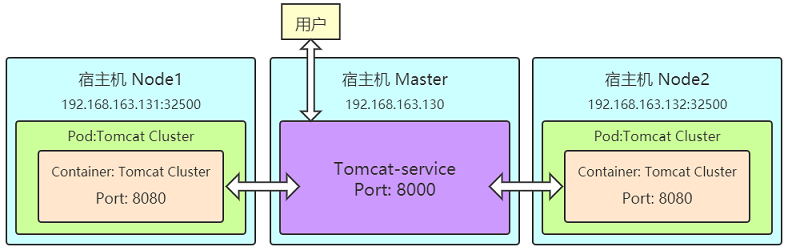
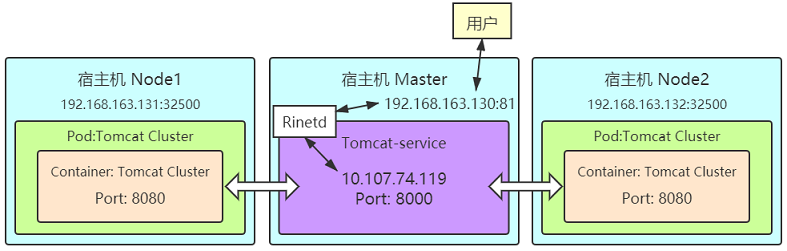
kube-service

diff --git a/2020/04/16/k8s-deployment/index.html b/2020/04/16/k8s-deployment/index.html
@@ -103,7 +103,7 @@
 <meta property="og:description" content="部署是主节点向从节点发送指令，创建容器的过程；k8s支持yml格式的部署脚本  Deployment部署脚本示例">
 <meta property="og:locale" content="zh-Hans">
 <meta property="og:image" content="http://yoursite.com/images/k8s/kube_service.png">
-<meta property="og:updated_time" content="2020-04-19T07:45:49.203Z">
+<meta property="og:updated_time" content="2020-04-19T14:31:59.927Z">
 <meta name="twitter:card" content="summary">
 <meta name="twitter:title" content="Deployment脚本部署Tomcat集群">
 <meta name="twitter:description" content="部署是主节点向从节点发送指令，创建容器的过程；k8s支持yml格式的部署脚本  Deployment部署脚本示例">
@@ -421,7 +421,7 @@
 <li><code>kubectl get deployment</code>    查看部署状态</li>
 </ol>
 <h3 id="外部访问-Tomcat-集群"><a href="#外部访问-Tomcat-集群" class="headerlink" title="外部访问 Tomcat 集群"></a>外部访问 Tomcat 集群</h3><blockquote>
-<p>在从节点上容器对外暴露的端口封装在Pod内，外界不能跨过Pod访问内部的容器。为了让外部能访问容器服务，做法是：在主节点上创建 service 服务，并向外暴露端口，通过访问 service服务，再由 service 转发到具体的 tomcat 服务，实现外部访问</p>
+<p>在从节点上容器对外暴露的端口封装在Pod内，外界不能跨过Pod访问内部的容器。为了让外部能访问容器服务，做法是：在主节点上创建 service 服务，并向外暴露端口，通过访问 service服务，再由 service 转发到具体的 tomcat 服务，实现外部访问，也可以实现负载均衡</p>
 </blockquote>
 <p><img src="\images\k8s\kube_service.png" alt=""></p>
 <ol>
@@ -430,7 +430,30 @@
 <li>kubectl get service</li>
 <li>kubectl descrive service service_name</li>
 </ol>
-<figure class="highlight"><table><tr><td class="gutter"><pre><div class="line">1</div><div class="line">2</div><div class="line">3</div><div class="line">4</div><div class="line">5</div><div class="line">6</div><div class="line">7</div><div class="line">8</div><div class="line">9</div><div class="line">10</div><div class="line">11</div><div class="line">12</div><div class="line">13</div><div class="line">14</div><div class="line">15</div></pre></td><td class="code"><pre><div class="line"># tomcat-service.yml</div><div class="line">apiVersion: v1</div><div class="line">kind: Service</div><div class="line">metadata:</div><div class="line">  name: tomcat-service</div><div class="line">  labels:</div><div class="line">    app: tomcat-service</div><div class="line">spec:</div><div class="line">  type: NodePort</div><div class="line">  selector:</div><div class="line">    app: tomcat-cluster	# Service要对应的目标 pod 的名称</div><div class="line">  ports:</div><div class="line">  - port: 8000	# Service 对外端口</div><div class="line">    targetPort: 8080    # 目标服务端口</div><div class="line">    nodePort: 32500</div></pre></td></tr></table></figure>
+<figure class="highlight"><table><tr><td class="gutter"><pre><div class="line">1</div><div class="line">2</div><div class="line">3</div><div class="line">4</div><div class="line">5</div><div class="line">6</div><div class="line">7</div><div class="line">8</div><div class="line">9</div><div class="line">10</div><div class="line">11</div><div class="line">12</div><div class="line">13</div><div class="line">14</div><div class="line">15</div></pre></td><td class="code"><pre><div class="line"># tomcat-service.yml</div><div class="line">apiVersion: v1</div><div class="line">kind: Service</div><div class="line">metadata:</div><div class="line">  name: tomcat-service</div><div class="line">  labels:</div><div class="line">    app: tomcat-service</div><div class="line">spec:</div><div class="line">#  type: NodePort</div><div class="line">  selector:</div><div class="line">    app: tomcat-cluster	# Service要对应的目标 pod 的名称</div><div class="line">  ports:</div><div class="line">  - port: 8000	# Service 对外端口</div><div class="line">    targetPort: 8080    # 目标服务端口</div><div class="line">#    nodePort: 32500</div></pre></td></tr></table></figure>
+<p>这种方式可以在宿主机内部通过<code>kubectl get services</code>查看Cluster-IP，然后通过<code>curl Cluster-IP:8080/.../...</code>的形式访问 Tomcat 集群服务，但是外界无法访问Cluster-IP，因为外部只能看到宿主机的IP，如何通过宿主机IP+端口转到Cluster-IP+端口呢？</p>
+<h3 id="端口转发工具-Rinetd"><a href="#端口转发工具-Rinetd" class="headerlink" title="端口转发工具 Rinetd"></a>端口转发工具 Rinetd</h3><blockquote>
+<p>Rinetd是Linux中的重定向传输控制协议工具，可将源IP端口数据转发到目标IP端口，在Kubernetes中用于将Service服务对外暴露</p>
+</blockquote>
+<h4 id="安装Rinetd"><a href="#安装Rinetd" class="headerlink" title="安装Rinetd"></a>安装Rinetd</h4><ol>
+<li><code>cd /usr/local</code></li>
+<li>下载源码：<code>wget http://www.boutell.com/rinted/http/rinetd.tar.gz</code></li>
+<li>解压并进入：<code>tar -zxvf rinetd.tar.gz</code>，<code>cd rinetd</code></li>
+<li>替换字符串：<code>sed -i &#39;s/65536/65535/g&#39; rinetd.c</code></li>
+<li><code>mkdir -p /usr/man</code></li>
+<li>安装gcc：<code>yum install -y gcc</code></li>
+<li>编译并安装：<code>make &amp;&amp; make install</code></li>
+</ol>
+<h4 id="端口映射"><a href="#端口映射" class="headerlink" title="端口映射"></a>端口映射</h4><ol>
+<li><p><code>vi /etc/rinetd.conf</code>，添加：<code>0.0.0.0 8001 10.100.22.231 8000</code></p>
+<p><em>0.0.0.0表示哪些客户端可以访问，8001表示对外暴露的端口，10.100.22.231为将8001接受的数据转发到宿主机内的IP，8000为转发到的端口</em></p>
+</li>
+<li><p>加载配置文件：<code>rinetd -c /etc/rinetd.conf</code></p>
+</li>
+</ol>
+<h3 id="对集群资源限定"><a href="#对集群资源限定" class="headerlink" title="对集群资源限定"></a>对集群资源限定</h3><p>对<code>tomcat-deploy.yml</code>做如下修改：</p>
+<figure class="highlight"><table><tr><td class="gutter"><pre><div class="line">1</div><div class="line">2</div><div class="line">3</div><div class="line">4</div><div class="line">5</div><div class="line">6</div><div class="line">7</div><div class="line">8</div><div class="line">9</div></pre></td><td class="code"><pre><div class="line">spec:</div><div class="line">  spec:</div><div class="line">    containers:</div><div class="line">      resources:	# 最小资源限制</div><div class="line">        cpu: 0.5</div><div class="line">        memory: 200Mi</div><div class="line">      limits:	# 最大资源限制</div><div class="line">        cpu: 1</div><div class="line">        memory: 512Mi</div></pre></td></tr></table></figure>
+<p>更新已部署的集群服务：<code>kubectl apply -f tomcat-deploy.yml</code></p>
 
       
     </div>
@@ -729,7 +752,7 @@
             
 
             
-              <div class="post-toc-content"><ol class="nav"><li class="nav-item nav-level-3"><a class="nav-link" href="#Deployment部署脚本示例"><span class="nav-number">1.</span> <span class="nav-text">Deployment部署脚本示例</span></a></li><li class="nav-item nav-level-3"><a class="nav-link" href="#部署命令"><span class="nav-number">2.</span> <span class="nav-text">部署命令</span></a></li><li class="nav-item nav-level-3"><a class="nav-link" href="#部署步骤"><span class="nav-number">3.</span> <span class="nav-text">部署步骤</span></a></li><li class="nav-item nav-level-3"><a class="nav-link" href="#外部访问-Tomcat-集群"><span class="nav-number">4.</span> <span class="nav-text">外部访问 Tomcat 集群</span></a></li></ol></div>
+              <div class="post-toc-content"><ol class="nav"><li class="nav-item nav-level-3"><a class="nav-link" href="#Deployment部署脚本示例"><span class="nav-number">1.</span> <span class="nav-text">Deployment部署脚本示例</span></a></li><li class="nav-item nav-level-3"><a class="nav-link" href="#部署命令"><span class="nav-number">2.</span> <span class="nav-text">部署命令</span></a></li><li class="nav-item nav-level-3"><a class="nav-link" href="#部署步骤"><span class="nav-number">3.</span> <span class="nav-text">部署步骤</span></a></li><li class="nav-item nav-level-3"><a class="nav-link" href="#外部访问-Tomcat-集群"><span class="nav-number">4.</span> <span class="nav-text">外部访问 Tomcat 集群</span></a></li><li class="nav-item nav-level-3"><a class="nav-link" href="#端口转发工具-Rinetd"><span class="nav-number">5.</span> <span class="nav-text">端口转发工具 Rinetd</span></a><ol class="nav-child"><li class="nav-item nav-level-4"><a class="nav-link" href="#安装Rinetd"><span class="nav-number">5.1.</span> <span class="nav-text">安装Rinetd</span></a></li><li class="nav-item nav-level-4"><a class="nav-link" href="#端口映射"><span class="nav-number">5.2.</span> <span class="nav-text">端口映射</span></a></li></ol></li><li class="nav-item nav-level-3"><a class="nav-link" href="#对集群资源限定"><span class="nav-number">6.</span> <span class="nav-text">对集群资源限定</span></a></li></ol></div>
             
 
           </div>
